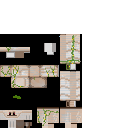
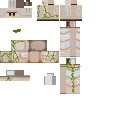
fix(textures): replace Sketchfab padded texture with official clean Minecraft texture and fix UV alignment

diff --git a/src/core/house.js b/src/core/house.js
@@ -192,11 +192,11 @@ export function createHouseManager({ scene, textures, storage = localStore() } =
     // 2: +Y (Top)
     setUV(2, u0 + d, u0 + d + w, v0, v0 + d);
     // 3: -Y (Bottom)
-    setUV(3, u0 + d + w, u0 + d + w + w, v0 + d, v0);
+    setUV(3, u0 + d + w, u0 + d + w + w, v0, v0 + d);
     // 4: +Z (Front)
     setUV(4, u0 + d, u0 + d + w, v0 + d, v0 + d + h);
     // 5: -Z (Back)
-    setUV(5, u0 + d + w + d, u0 + d + w + d + w, v0 + d, v0 + d + h);
+    setUV(5, u0 + d + w + d + w, u0 + d + w + d, v0 + d, v0 + d + h);
 
     uvs.needsUpdate = true;
     return geo;
@@ -217,7 +217,7 @@ export function createHouseManager({ scene, textures, storage = localStore() } =
     golemMaterial = new THREE.MeshStandardMaterial({
       map: golemTex,
       roughness: 0.85,
-      metalness: 0.15,
+      metalness: 0.1,
     });
     return golemMaterial;
   }
@@ -234,8 +234,6 @@ export function createHouseManager({ scene, textures, storage = localStore() } =
     // ── 1. Left & Right Legs (Hinged at hips) ──
     // Leg size: w=6, h=16, d=5. UVs: Right leg (37, 0), Left leg (60, 0)
     const legH = 16 * P;
-    const legW = 6 * P;
-    const legD = 5 * P;
 
     const rLegGeo = makeMinecraftBox(6, 16, 5, 37, 0, P);
     const lLegGeo = makeMinecraftBox(6, 16, 5, 60, 0, P);
@@ -296,11 +294,6 @@ export function createHouseManager({ scene, textures, storage = localStore() } =
     noseMesh.position.set(0, 3 * P, (4 + 1) * P);
     noseMesh.castShadow = true;
     headPivot.add(noseMesh);
-
-    // Glowing Eyes Light
-    const eyeLight = new THREE.PointLight(0xff6600, 1.2, 5);
-    eyeLight.position.set(0, 5 * P, 5 * P);
-    headPivot.add(eyeLight);
 
     torsoGroup.add(headPivot);
 

diff --git a/src/dev/modelsPage.js b/src/dev/modelsPage.js
@@ -98,11 +98,11 @@ export function makeMinecraftBox(w, h, d, u0, v0, p, texW = 128, texH = 128) {
   // 2: +Y (Top)
   setUV(2, u0 + d, u0 + d + w, v0, v0 + d);
   // 3: -Y (Bottom)
-  setUV(3, u0 + d + w, u0 + d + w + w, v0 + d, v0);
+  setUV(3, u0 + d + w, u0 + d + w + w, v0, v0 + d);
   // 4: +Z (Front)
   setUV(4, u0 + d, u0 + d + w, v0 + d, v0 + d + h);
   // 5: -Z (Back)
-  setUV(5, u0 + d + w + d, u0 + d + w + d + w, v0 + d, v0 + d + h);
+  setUV(5, u0 + d + w + d + w, u0 + d + w + d, v0 + d, v0 + d + h);
 
   uvs.needsUpdate = true;
   return geo;
@@ -130,7 +130,7 @@ export function buildArticulatedGolem() {
   const mat = new THREE.MeshStandardMaterial({
     map: tex,
     roughness: 0.85,
-    metalness: 0.15,
+    metalness: 0.1,
     wireframe: wireframe,
   });
 
@@ -189,10 +189,6 @@ export function buildArticulatedGolem() {
   noseMesh.position.set(0, 3 * P, 5 * P);
   noseMesh.castShadow = true;
   headPivot.add(noseMesh);
-
-  const eyeLight = new THREE.PointLight(0xff6600, 1.2, 4);
-  eyeLight.position.set(0, 5 * P, 5 * P);
-  headPivot.add(eyeLight);
 
   torsoGroup.add(headPivot);
 
